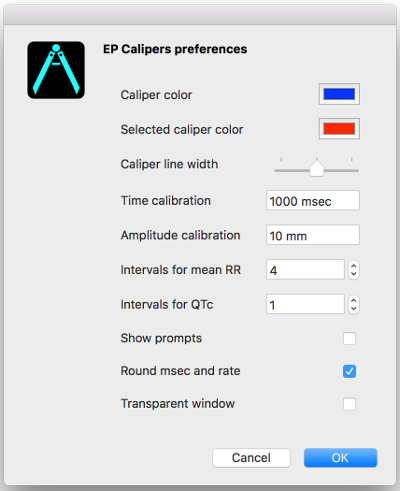
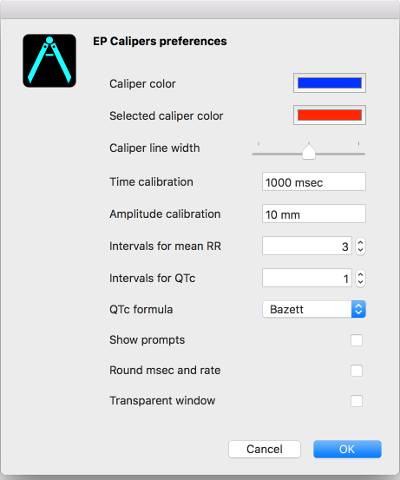
Update help files for multiple QTc formulas

diff --git a/EPCalipers.help/Contents/Resources/fr.lproj/pgs/measurements.html b/EPCalipers.help/Contents/Resources/fr.lproj/pgs/measurements.html
@@ -229,29 +229,29 @@ for the JavaScript code in this tag.
 </head>
 <body>
 <div id="content">
-<div id="outline-container-orgb8713b5" class="outline-2">
-<h2 id="orgb8713b5"><img src="../../shrd/icon_32x32@2x.png" alt="icon_32x32@2x.png" /> Prendre des mesures</h2>
-<div class="outline-text-2" id="text-orgb8713b5">
+<div id="outline-container-org077df6d" class="outline-2">
+<h2 id="org077df6d"><img src="../../shrd/icon_32x32@2x.png" alt="icon_32x32@2x.png" /> Prendre des mesures</h2>
+<div class="outline-text-2" id="text-org077df6d">
 </div>
-<div id="outline-container-orgd5de95c" class="outline-3">
-<h3 id="orgd5de95c">L’intervalle du compas</h3>
-<div class="outline-text-3" id="text-orgd5de95c">
+<div id="outline-container-org42382e0" class="outline-3">
+<h3 id="org42382e0">L’intervalle du compas</h3>
+<div class="outline-text-3" id="text-org42382e0">
 <p>
 L’intervalle mesuré par chaque compas est indiqué au dessus ou à coté de la barre transversale du compas.  Avant l’étalonnage des compas, les mesures sont indiquées dans des unités arbitraires (des points, égals environ aux pixels d’écran).  Les compas d’angle montrent l’angle mesuré en degrés et il ne faut pas de les étalonner. 
 </p>
 </div>
 </div>
-<div id="outline-container-orgf0c5e1f" class="outline-3">
-<h3 id="orgf0c5e1f">Invites sur écran</h3>
-<div class="outline-text-3" id="text-orgf0c5e1f">
+<div id="outline-container-org3fcd168" class="outline-3">
+<h3 id="org3fcd168">Invites sur écran</h3>
+<div class="outline-text-3" id="text-org3fcd168">
 <p>
 Si la <a href="./preferences.html">préférence</a> <i>Des messages-guides</i> est choisi (c’est par défaut) l’application vous guidera avec des instructions détaillées sur comment on prend chaque mesure.  Après que vous apprenez comment faire les mesures vous pouvez désactiver cette préférence pour réduire le nombre des messages-guides.  Des messages-guides se montrent en haut de la fênetre, juste au-dessous des barres d’outils. Par exemple, en mesurant l’intervalle RR moyen, si la préférence <i>Des message-guides</i> est activée, l’application va d’abord vous inviter à choisir un compas de temps, puis l’étendre sur un nombre d’intervalles, et enfin cliquer <i>Prochain</i> sur la barre d’outils <i>Navigation</i>.  Une boîte de dialogue apparaîtra et demandera combien d’intervalles sont mesurés.  Après l’entrée du nombre et avoir cliqué sur le bouton <i>Calculer</i>, le résultat apparaîtra.  Si la préférence <i>Des messages-guides</i> est désactivée, vous pouvez choisir un compas et l’étendre sur un nombre d’intervalles sans messages-guides, et puis appuyer le bouton <i>FCM</i> (Fréquence cardiaque moyenne) ou la commande de menu <b>Compas | Intervalle moyen/Fréquence moyenne</b>.  Le resultat sera le même.
 </p>
 </div>
 </div>
-<div id="outline-container-orge7fd66a" class="outline-3">
-<h3 id="orge7fd66a">Étalonnage</h3>
-<div class="outline-text-3" id="text-orge7fd66a">
+<div id="outline-container-org1ebda85" class="outline-3">
+<h3 id="org1ebda85">Étalonnage</h3>
+<div class="outline-text-3" id="text-org1ebda85">
 <p>
 Il faut étalonner des compas avant que des mesures peuvent être faire.  Si la préférence <i>Des message-guides</i> est activée, appuyer le bouton <i>Étalonner</i> ou choisir la commande de menu <b>Compas | Étalonner</b>.  Suivre les invites sur écran pour choisir un compas et l’étendre sur un intervalle connu (p.e. 1000 msec pour un compas de temps ou 10 mm pour un compas d’amplitude).  Appuyer le bouton <i>Prochain</i>.  Dans la boîte de dialogue qui apparait, assurer-vous que l’intervalle correspond à la mesure.  Entrer l’intervalle d’étalonnage et les unités (les deux), p.e. 1000 msec ou 1 mV.  Appuyer le bouton <i>Étalonner</i> dans la boîte de dialogue pour fixer l’étalonnage.  Noter qu'il faut que les compas de temps et d'amplitude soient étalonnés individuellement.  Après l'étalonnage, les compas montreront les intervalles avec les unités utilisées pour les étalonner.  Des nouveaux compas créés utiliseront le même étalonnage.
 </p>
@@ -265,35 +265,35 @@ Il est important d’utiliser des unités de temps comme <i>msec</i> ou <i>sec</
 </p>
 </div>
 </div>
-<div id="outline-container-org83eb9bc" class="outline-3">
-<h3 id="org83eb9bc">Changement de l’étalonnage</h3>
-<div class="outline-text-3" id="text-org83eb9bc">
+<div id="outline-container-orgbcc136e" class="outline-3">
+<h3 id="orgbcc136e">Changement de l’étalonnage</h3>
+<div class="outline-text-3" id="text-orgbcc136e">
 <p>
 Vous pouvez réétalonner à tout moment.  L'étalonnage peut être complètement effacé en choisissant <b>Effacer</b> sur le menu d'étalonnage.  Noter que l'étalonnage continue quand l'image est zoomée.  La sélection d'une nouvelle image ou le changement du mode à la fenetre transparente effacera l'étalonnage.  Si vous voulez tourner l’image, vous devez d’abord effacer l’étalonnage.
 </p>
 </div>
 </div>
-<div id="outline-container-org68bc958" class="outline-3">
-<h3 id="org68bc958">Intervalle/fréquence</h3>
-<div class="outline-text-3" id="text-org68bc958">
+<div id="outline-container-orgf0bf1c3" class="outline-3">
+<h3 id="orgf0bf1c3">Intervalle/fréquence</h3>
+<div class="outline-text-3" id="text-orgf0bf1c3">
 <p>
 Après qu'un compas de temps est étalonné, si vous utilisez des unités du temps (par exemple msec ou sec) pour l'étalonnage, il est possible d'alterner entre les mesures d'intervalle (par exemple 600 msec) et les mesures de fréquence cardiaque (par exemple 100 bpm) en choisissant le bouton <i>I/FC</i> ou la commande de menu <b>Compas | Alterner intervalle/fréquence</b>.
 </p>
 </div>
 </div>
-<div id="outline-container-org115667a" class="outline-3">
-<h3 id="org115667a">Calcul de la fréquence moyenne et de l'intervalle moyen</h3>
-<div class="outline-text-3" id="text-org115667a">
+<div id="outline-container-orge55b25f" class="outline-3">
+<h3 id="orge55b25f">Calcul de la fréquence moyenne et de l'intervalle moyen</h3>
+<div class="outline-text-3" id="text-orge55b25f">
 <p>
 Sélectionner un compas étalonné et mesurer un nombre d'intervalles.  Choisir le bouton <i>FCM</i> et entrer le nombre d'intervalles mesurés.  Une boîte de dialogue montrera la fréquence cardiaque moyenne calculée et l'intervalle moyen.  Cela est utile pour le calcul des fréquences et des intervalles pendant un rythme irrégulier, par exemple la fibrillation auriculaire.
 </p>
 </div>
 </div>
-<div id="outline-container-org305f6db" class="outline-3">
-<h3 id="org305f6db">Calcul du QT corrigé</h3>
-<div class="outline-text-3" id="text-org305f6db">
+<div id="outline-container-orgc5a6335" class="outline-3">
+<h3 id="orgc5a6335">Calcul du QT corrigé</h3>
+<div class="outline-text-3" id="text-orgc5a6335">
 <p>
-La mesure de QTc est un procédé en plusieurs étapes et donc les messages-guides se montrent toujours.  Choisir le bouton <i>QTc</i> ou la commande de menu <b>Compas | Mesurer le QTc</b>.  Étendre le compas sélectionné sur un ou plusieurs intervalles RR et puis choisir le bouton <i>Prochain</i>.  Entrer le nombre d'intervalles étant mesurés et puis choisir <b>Continuer</b>.  Utiliser le même compas pour mesurer l'intervalle QT.  Choisir le bouton <i>Prochain</i>.  Une boîte de dialogue montrera le QT calculé en utilisant la formule de Bazett.
+La mesure de QTc est un procédé en plusieurs étapes et donc les messages-guides se montrent toujours.  Choisir le bouton <i>QTc</i> ou la commande de menu <b>Compas | Mesurer le QTc</b>.  Étendre le compas sélectionné sur un ou plusieurs intervalles RR et puis choisir le bouton <i>Prochain</i>.  Entrer le nombre d'intervalles étant mesurés et puis choisir <b>Continuer</b>.  Utiliser le même compas pour mesurer l'intervalle QT.  Choisir le bouton <i>Prochain</i>.  Une boîte de dialogue montrera le QT calculé en utilisant la formule de Bazett par défaut.  On peut changer la formule en utilisant <a href="./preferences.html">les préférences</a>.
 </p>
 
 <div class="figure">
@@ -304,9 +304,9 @@ La mesure de QTc est un procédé en plusieurs étapes et donc les messages-guid
 </div>
 </div>
 
-<div id="outline-container-orgbd338c6" class="outline-3">
-<h3 id="orgbd338c6"><a id="orgd01dd22"></a>Brugadometer</h3>
-<div class="outline-text-3" id="text-orgbd338c6">
+<div id="outline-container-org687b961" class="outline-3">
+<h3 id="org687b961"><a id="orgf43885b"></a>Brugadometer</h3>
+<div class="outline-text-3" id="text-org687b961">
 <p>
 Le <b>Brugadometer</b> est un outil de diagnostic, utilisé pour l'analyse du syndrome de Brugada.  Cet outil a été développé en collaboration avec Dr. Adrian Baranchuk et ses collègues à l'Université Queens, Kingston, en Ontario.  Le Brugadometer peut distinguer entre un bloc de branche droite incomplète, et un motif du syndrome de Brugada aux fils V1 ou V2.  Cet outil est en cours de développement dans <b>Compas EP</b> et il évoluera dans des futures versions.  Pour utiliser le <b>Brugadometer</b>, il faut étalonner un compas de temps en msec ou mm et un compas d'amplitude en mm.  Ensuite, un compas d'angle apparaîtra avec un triangle au sommet comme ceci.
 </p>

diff --git a/EPCalipers.help/Contents/Resources/English.lproj/pgs/measurements.html b/EPCalipers.help/Contents/Resources/English.lproj/pgs/measurements.html
@@ -229,29 +229,29 @@ for the JavaScript code in this tag.
 </head>
 <body>
 <div id="content">
-<div id="outline-container-org37f80df" class="outline-2">
-<h2 id="org37f80df"><img src="../../shrd/icon_32x32@2x.png" alt="icon_32x32@2x.png" /> Making measurements</h2>
-<div class="outline-text-2" id="text-org37f80df">
+<div id="outline-container-orgbf1a597" class="outline-2">
+<h2 id="orgbf1a597"><img src="../../shrd/icon_32x32@2x.png" alt="icon_32x32@2x.png" /> Making measurements</h2>
+<div class="outline-text-2" id="text-orgbf1a597">
 </div>
-<div id="outline-container-orgd4e8787" class="outline-3">
-<h3 id="orgd4e8787">Caliper interval</h3>
-<div class="outline-text-3" id="text-orgd4e8787">
+<div id="outline-container-org41eb6a2" class="outline-3">
+<h3 id="org41eb6a2">Caliper interval</h3>
+<div class="outline-text-3" id="text-org41eb6a2">
 <p>
 The interval measured by each caliper is displayed on top of or next to the crossbar of the caliper.  Until the calipers are calibrated, measurements are displayed in arbitrary units (<i>points</i>, roughly equivalent to screen pixels).  Angle calipers show a measurement of the current angle in degrees and do not need to be calibrated to display angles.
 </p>
 </div>
 </div>
-<div id="outline-container-org4b0dbea" class="outline-3">
-<h3 id="org4b0dbea">Measurement prompts</h3>
-<div class="outline-text-3" id="text-org4b0dbea">
+<div id="outline-container-org72f1331" class="outline-3">
+<h3 id="org72f1331">Measurement prompts</h3>
+<div class="outline-text-3" id="text-org72f1331">
 <p>
 If the Show Prompts <a href="./preferences.html">preference</a> is selected (it is by default) the program will guide you with detailed instructions on how to make each measurement.  When you become familiar with how to make measurements you may consider turning off the <i>Show Prompts</i> preference.  This minimizes the prompting the program gives.  Prompts appear at the top of the window, right under the toolbars.  For example, when measuring the mean RR interval, if <i>Show prompts</i> is enabled, the program will first prompt you to select a time caliper, stretch it over a number of intervals, and then click <b>Next</b> on the <i>Navigation Toolbar</i>.  A dialog will then appear asking how many intervals you are measuring.  After entering the number and clicking the calculate button, the result will appear.  If <i>Show prompts</i> is disabled, you can select a caliper and stretch it over a number of intervals without prompting, and then press the <b>mRR</b> (mean RR) button or the <b>Caliper | Mean Rate/Interval</b> menu item.  The rest of the process is the same.
 </p>
 </div>
 </div>
-<div id="outline-container-org51d6d4f" class="outline-3">
-<h3 id="org51d6d4f">Calibration</h3>
-<div class="outline-text-3" id="text-org51d6d4f">
+<div id="outline-container-org969c49f" class="outline-3">
+<h3 id="org969c49f">Calibration</h3>
+<div class="outline-text-3" id="text-org969c49f">
 <p>
 Calibration is necessary before any measurements can be made!  If the <i>Show prompts</i> preference is enabled, select the <b>Calibrate</b> button or the <b>Caliper | Calibrate</b> menu item.  Follow the prompts to select a caliper and stretch it over a known interval (such as 1000 msec for time, or 10 mm for amplitude calipers).  Select the <i>Next</i> button.  In the dialog box that appears, make sure the interval matches what you are measuring.  Enter both the calibration interval and units (e.g. 1000 msec,  or 1 mV).  Select the <i>Calibrate</i> button in the dialog box to set the calibration.  Note that time and amplitude calipers need to be calibrated separately.  Once calibrated, calipers will show intervals in the units used to calibrate.  Newly created calipers will use the same calibration.
 </p>
@@ -265,35 +265,35 @@ It is important to use time units such as <i>msec</i> or <i>sec</i> when providi
 </p>
 </div>
 </div>
-<div id="outline-container-org91875ea" class="outline-3">
-<h3 id="org91875ea">Changing calibration</h3>
-<div class="outline-text-3" id="text-org91875ea">
+<div id="outline-container-org342f985" class="outline-3">
+<h3 id="org342f985">Changing calibration</h3>
+<div class="outline-text-3" id="text-org342f985">
 <p>
 You can recalibrate at any time just by repeating the calibration process.  You can clear all calibration by selecting <b>Clear</b> in the <i>Calibration Toolbar</i>.  Note that calibration is maintained if the image is zoomed.  However, if you are using transparent window mode, you must manually recalibrate if you zoom the image on the Desktop (for example an image loaded in the Preview app).  Selecting a new image will reset calibration.  If you need to rotate the image, you must first clear calibration.
 </p>
 </div>
 </div>
-<div id="outline-container-orgd6e28d9" class="outline-3">
-<h3 id="orgd6e28d9">Interval/Rate</h3>
-<div class="outline-text-3" id="text-orgd6e28d9">
+<div id="outline-container-orga4e821a" class="outline-3">
+<h3 id="orga4e821a">Interval/Rate</h3>
+<div class="outline-text-3" id="text-orga4e821a">
 <p>
 Once a time caliper is calibrated, provided you use time units (such as msec or sec) for the calibration, it is possible to toggle between interval measurements (e.g. 600 msec) and heart rate measurements (e.g. 100 bpm) by selecting the <b>R/I</b> button or <b>Caliper | Toggle Rate/Interval</b> menu command.
 </p>
 </div>
 </div>
-<div id="outline-container-org14c3e3d" class="outline-3">
-<h3 id="org14c3e3d">Mean rate and interval calculation</h3>
-<div class="outline-text-3" id="text-org14c3e3d">
+<div id="outline-container-orgea7efc6" class="outline-3">
+<h3 id="orgea7efc6">Mean rate and interval calculation</h3>
+<div class="outline-text-3" id="text-orgea7efc6">
 <p>
 Select a calibrated caliper and stretch it over a number of intervals.  Select the <b>mRR</b> button or <b>Caliper | Mean Rate/Interval</b> menu command and enter the number of intervals measured in the dialog box that appears.  Select the <b>Calculate</b> button to see the result.  If the <i>Show prompts</i> preference is selected, prompts will appear to guide you through the process.  Using <b>EP Calipers</b> to calculate mean rates and intervals is very useful in irregular rhythms, such as atrial fibrillation.
 </p>
 </div>
 </div>
-<div id="outline-container-org5e0ad16" class="outline-3">
-<h3 id="org5e0ad16">QTc calculation</h3>
-<div class="outline-text-3" id="text-org5e0ad16">
+<div id="outline-container-orgf9a73ce" class="outline-3">
+<h3 id="orgf9a73ce">QTc calculation</h3>
+<div class="outline-text-3" id="text-orgf9a73ce">
 <p>
-QTc measurement is a multiple step process, and prompts are always shown.  Select the <b>QTc</b> button on the toolbar or the <b>Caliper | QTc Measurement</b> menu command.  Follow the prompt to stretch the selected caliper over one or more RR intervals and select the <b>Next</b> button.  Enter the number of intervals the caliper is stretched over and select <b>Continue</b>.  Then use the same caliper to measure the QT interval.  Select <b>Next</b>.  A dialog box will give the calculated QTc using Bazett's formula.
+QTc measurement is a multiple step process, and prompts are always shown.  Select the <b>QTc</b> button on the toolbar or the <b>Caliper | QTc Measurement</b> menu command.  Follow the prompt to stretch the selected caliper over one or more RR intervals and select the <b>Next</b> button.  Enter the number of intervals the caliper is stretched over and select <b>Continue</b>.  Then use the same caliper to measure the QT interval.  Select <b>Next</b>.  A dialog box will give the calculated QTc using Bazett's formula by default.  You can change the QTc formula using <a href="./preferences.html">Preferences</a>.
 </p>
 
 <div class="figure">
@@ -304,9 +304,9 @@ QTc measurement is a multiple step process, and prompts are always shown.  Selec
 </div>
 </div>
 
-<div id="outline-container-org2ce6b1e" class="outline-3">
-<h3 id="org2ce6b1e">Brugadometer</h3>
-<div class="outline-text-3" id="text-org2ce6b1e">
+<div id="outline-container-org469b3cb" class="outline-3">
+<h3 id="org469b3cb">Brugadometer</h3>
+<div class="outline-text-3" id="text-org469b3cb">
 <p>
 The <b>Brugadometer</b> is a diagnostic tool for Brugada syndrome developed in collaboration with Dr. Adrian Baranchuk and his colleagues at Queen's University Kingston, Ontario, Canada.  It is a tool intended to distinguish between ECGs with a Brugada syndrome pattern in leads V1 or V2 and ECGs with incomplete right bundle branch block.  This tool is under development in <b>EP Calipers</b> and will likely evolve in future updates.  In order to use the <b>Brugadometer</b>, it is necessary to calibrate an amplitude caliper in millimeters (mm) and to calibrate a time caliper preferably in msec or mm.  After doing so, an angle caliper will appear to have a triangle at its apex as shown below.
 </p>

diff --git a/EPCalipers.help/Contents/Resources/fr.lproj/pgs/preferences.html b/EPCalipers.help/Contents/Resources/fr.lproj/pgs/preferences.html
@@ -229,9 +229,9 @@ for the JavaScript code in this tag.
 </head>
 <body>
 <div id="content">
-<div id="outline-container-org53de5d9" class="outline-2">
-<h2 id="org53de5d9"><img src="../../shrd/icon_32x32@2x.png" alt="icon_32x32@2x.png" /> Préférences</h2>
-<div class="outline-text-2" id="text-org53de5d9">
+<div id="outline-container-org5411c34" class="outline-2">
+<h2 id="org5411c34"><img src="../../shrd/icon_32x32@2x.png" alt="icon_32x32@2x.png" /> Préférences</h2>
+<div class="outline-text-2" id="text-org5411c34">
 <p>
 Les préférences d’application peuvent être choisies en utilisant la commande de menu <b>Compas EP | Préférences</b>.  Vous pouvez changer les couleurs de compas, la larguer de ligne de compas, ainsi que l’intervalle d”étalonnage par défaut et le nombre d’intervalles pour calculer les intervalles moyens.  Par exemple, si vous utilisez toujours un intervalle RR pour calculer le QTc, mettre le <i>Nombre d’intervalles RR pour QTc</i> à un intervalle.  Noter que vous pouvez changer ces nombres quand vous prenez les mesures.  Vous pouvez aussi utilisez le dialog de préférences pour activer la fênetre transparente.
 </p>
@@ -242,9 +242,9 @@ Les préférences d’application peuvent être choisies en utilisant la command
 <p><span class="figure-number">Figure 1: </span>Préférences</p>
 </div>
 </div>
-<div id="outline-container-org4e2bfeb" class="outline-3">
-<h3 id="org4e2bfeb">Préférences expliquées</h3>
-<div class="outline-text-3" id="text-org4e2bfeb">
+<div id="outline-container-org68604ec" class="outline-3">
+<h3 id="org68604ec">Préférences expliquées</h3>
+<div class="outline-text-3" id="text-org68604ec">
 <ul class="org-ul">
 <li>Couleur de compas: C’est la couleur d’un compas ajouté qui est non choisi.  Cette couleur peut étre plus tard changée par un clic-droit sur le compas et puis en choisissant <b>Couleur de compas</b>.</li>
 <li>Couleur de compas choisi: C’est la couleur d’un compas sélectioné.</li>
@@ -253,6 +253,7 @@ Les préférences d’application peuvent être choisies en utilisant la command
 <li>Étalonnage d’amplitude: C’est la valeur par défaut pour étalonner les compas d’amplitude.</li>
 <li>No. d’int pour RR moyen: Le nombre d’intervalles par défaut que vous utilisez pour mesurer l’intervalle RR moyen.</li>
 <li>No. d’int RR pour QTc: Le nombre d’intervalles par défaut que vous utilisez pour mesurer l’intervalle RR moyen pour calculer le QT corrigé.</li>
+<li>Formule QTc: Choisir une formule pour calculer le QTc.  Choisir « Toutes » pour utiliser toutes les formules.</li>
 <li>Des message-guides: Des messages-guides sont utiles quand vous êtes en train d’apprendre l’application. Vous pouvez l’accélérer en désactivant cette option.  Des messages-guides vous guident dans les étapes d’étalonnage et de mesures.</li>
 <li>Arrondir msec et bpm: Arrondir des intervalles dans msec et des fréquences à l’entier le plus proche.  Noter que les valeurs dans secs ou autres unités ne sont arrondies jamais.</li>
 <li>Fênetre transparente: La fênetre primaire doit transparente.  <b>Compas EP</b> peut alors être utilisé comme un compas flottant pour mesurer des images sur votre bureau.</li>

diff --git a/EPCalipers.help/Contents/Resources/English.lproj/pgs/preferences.html b/EPCalipers.help/Contents/Resources/English.lproj/pgs/preferences.html
@@ -229,9 +229,9 @@ for the JavaScript code in this tag.
 </head>
 <body>
 <div id="content">
-<div id="outline-container-org7b88bf5" class="outline-2">
-<h2 id="org7b88bf5"><img src="../../shrd/icon_32x32@2x.png" alt="icon_32x32@2x.png" /> Preferences</h2>
-<div class="outline-text-2" id="text-org7b88bf5">
+<div id="outline-container-org0490e5c" class="outline-2">
+<h2 id="org0490e5c"><img src="../../shrd/icon_32x32@2x.png" alt="icon_32x32@2x.png" /> Preferences</h2>
+<div class="outline-text-2" id="text-org0490e5c">
 <p>
 Preferences can be selected using the <b>EP Calipers | Preferences</b> menu item.  You can change caliper colors, line width of the calipers, as well as default calibration intervals and number of intervals used to calculate mean intervals.  For example, if you usually use just 1 RR interval to calculate the QTc, set the number of mean RR intervals for the QTc measurement to 1 interval.  Remember though you can override any of these values when you actually do the measurements.  You can also use the dialog to change to a transparent window.
 </p>
@@ -242,9 +242,9 @@ Preferences can be selected using the <b>EP Calipers | Preferences</b> menu item
 <p><span class="figure-number">Figure 1: </span>Preferences</p>
 </div>
 </div>
-<div id="outline-container-org781b2e2" class="outline-3">
-<h3 id="org781b2e2">Preferences explained</h3>
-<div class="outline-text-3" id="text-org781b2e2">
+<div id="outline-container-org8d8a752" class="outline-3">
+<h3 id="org8d8a752">Preferences explained</h3>
+<div class="outline-text-3" id="text-org8d8a752">
 <ul class="org-ul">
 <li>Caliper color: This is the color of unselected newly added calipers.  Note that this color can be overwritten by right-clicking on a caliper and selecting <b>Caliper Color</b>.</li>
 <li>Selected caliper color: This is the color of the selected caliper.</li>
@@ -253,6 +253,7 @@ Preferences can be selected using the <b>EP Calipers | Preferences</b> menu item
 <li>Amplitude calibration: This is the default value for calibration of amplitude calipers.  Put whatever value you usually use to calibrate here.</li>
 <li>Intervals for mean RR: The default number of intervals you use to measure mean RR intervals.</li>
 <li>Intervals for QTc: The default number of intervals you use to measure the mean RR interval for QTc measurements.</li>
+<li>QTc formula: Choose a QTc formula.  Choose "All" to use all the formulas.</li>
 <li>Show prompts:  Prompting is useful when you are first learning the program, but it is faster to disable this option.  Prompts guide you through the steps of calibrating and making measurements.</li>
 <li>Round msec and rate: Rounds intervals in msec to the nearest msec and heart rates to the nearest bpm.  If unchecked, values are shown with higher precision using up to 3 decimal places.  Note that values in secs or values using other units are never rounded regardless of this preference.</li>
 <li>Transparent window: Makes the main window transparent.  <b>EP Calipers</b> can then be used as a floating caliper to measure anything you have open on your Desktop.</li>
